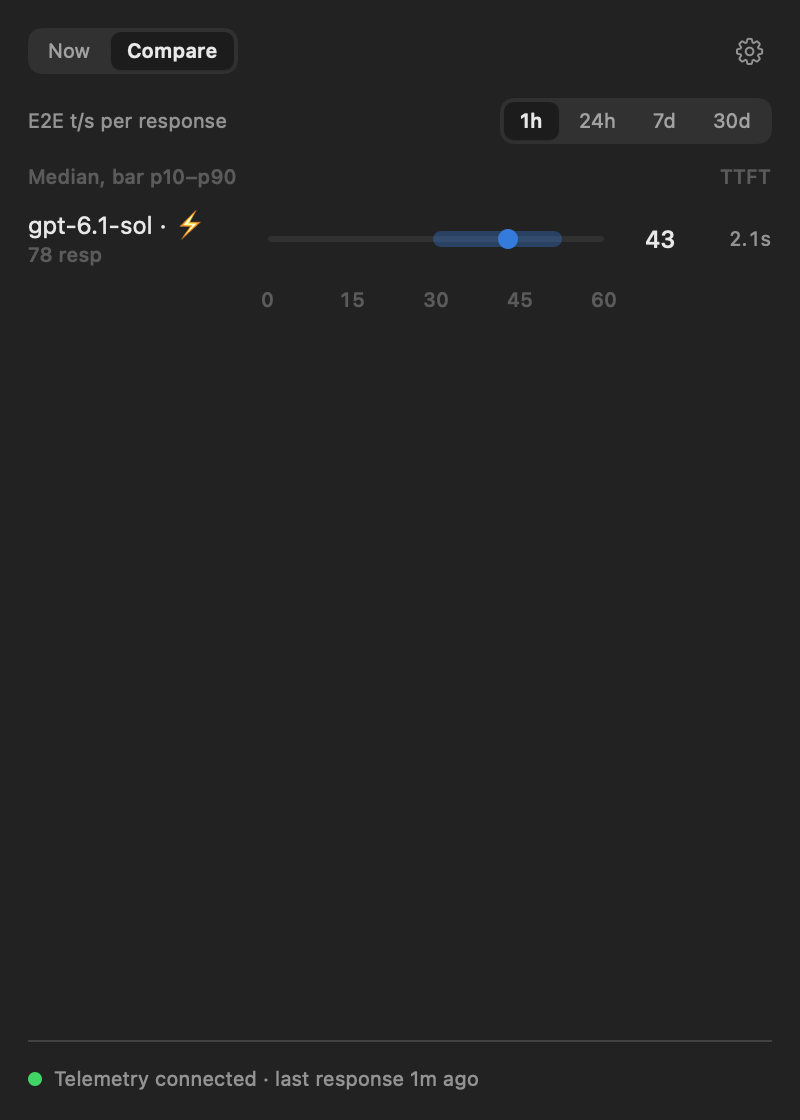
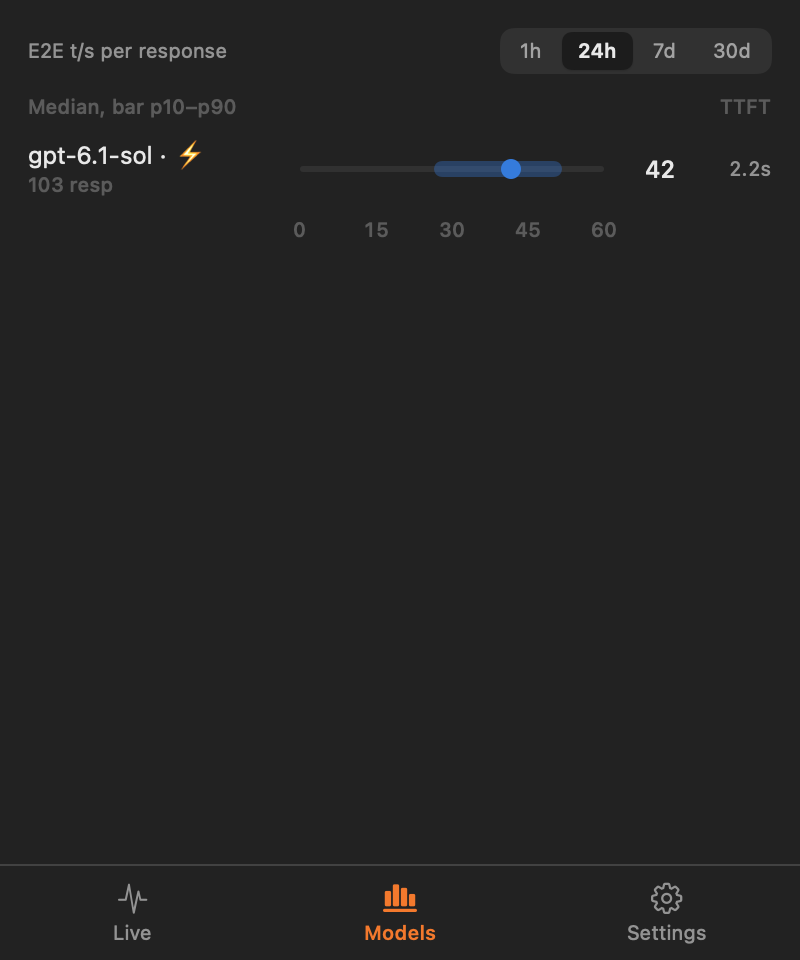
feat: bottom tab bar with Live, Models and Settings
The Now/Compare switch and the gear in the header are replaced by a tab
bar at the bottom: Live (formerly Now), Models (formerly Compare) and
Settings. Without the header the Live chart gets more room. The telemetry
status line only appears above the tab bar when it needs attention, and
the Settings tab then carries a coloured dot.

diff --git a/Sources/CodexTPS/Popover.swift b/Sources/CodexTPS/Popover.swift
@@ -13,42 +13,29 @@ struct PopoverView: View {
     let setup: CodexSetup
 
     var body: some View {
-        VStack(alignment: .leading, spacing: 12) {
-            HStack {
-                if selection.showSettings {
-                    Text("Settings").font(.headline)
-                } else {
-                    Segmented(options: [ChartSelection.Tab.now, .compare], title: { $0 == .now ? "Now" : "Compare" }, selected: selection.tab) {
-                        selection.tab = $0
-                    }
-                }
-                Spacer()
-                Button { selection.showSettings.toggle() } label: {
-                    Image(systemName: selection.showSettings ? "xmark" : "gearshape")
-                        .font(.system(size: 13))
-                        .foregroundStyle(.secondary)
-                        .frame(width: 22, height: 22)
-                        .contentShape(Rectangle())
-                }
-                .buttonStyle(.plain)
-                .help(selection.showSettings ? "Close settings" : "Settings")
-            }
-
+        let status = SetupStatusRow(stats: stats, setup: setup, compact: true)
+        VStack(spacing: 0) {
             Group {
-                if selection.showSettings {
-                    SettingsPanel(stats: stats, tray: tray, loginItem: loginItem, setup: setup)
-                } else if selection.tab == .now {
-                    NowTab(stats: stats, selection: selection, tray: tray)
-                } else {
-                    CompareTab(stats: stats, selection: selection, tray: tray)
+                switch selection.tab {
+                case .live: NowTab(stats: stats, selection: selection, tray: tray)
+                case .models: CompareTab(stats: stats, selection: selection, tray: tray)
+                case .settings: SettingsPanel(stats: stats, tray: tray, loginItem: loginItem, setup: setup)
                 }
             }
-            .frame(maxHeight: .infinity, alignment: .top)
+            .frame(maxWidth: .infinity, maxHeight: .infinity, alignment: .top)
+            .padding([.horizontal, .top], 14)
+            .padding(.bottom, 10)
+
+            // Telemetry state is shown here only when it needs attention; Settings always has it.
+            if !status.isHealthy, selection.tab != .settings {
+                status
+                    .padding(.horizontal, 14)
+                    .padding(.bottom, 8)
+            }
 
             Divider()
-            SetupStatusRow(stats: stats, setup: setup, compact: true)
+            TabBar(selection: selection, settingsBadge: status.isHealthy ? nil : status.indicatorColor)
         }
-        .padding(14)
         .frame(width: Self.size.width, height: Self.size.height)
         .onAppear {
             loginItem.refresh()
@@ -57,7 +44,39 @@ struct PopoverView: View {
     }
 }
 
-// MARK: - Now
+private struct TabBar: View {
+    let selection: ChartSelection
+    /// Dot on the Settings tab when telemetry needs attention.
+    let settingsBadge: Color?
+
+    var body: some View {
+        HStack(spacing: 0) {
+            ForEach(ChartSelection.Tab.allCases, id: \.self) { tab in
+                let on = selection.tab == tab
+                Button { selection.tab = tab } label: {
+                    VStack(spacing: 2) {
+                        Image(systemName: tab.symbol)
+                            .font(.system(size: 15, weight: on ? .semibold : .regular))
+                            .frame(height: 18)
+                            .overlay(alignment: .topTrailing) {
+                                if tab == .settings, let badge = settingsBadge {
+                                    Circle().fill(badge).frame(width: 7, height: 7).offset(x: 4, y: -2)
+                                }
+                            }
+                        Text(tab.title).font(.caption2.weight(on ? .semibold : .regular))
+                    }
+                    .foregroundStyle(on ? Color.accentColor : Color.secondary)
+                    .frame(maxWidth: .infinity)
+                    .padding(.vertical, 7)
+                    .contentShape(Rectangle())
+                }
+                .buttonStyle(.plain)
+            }
+        }
+    }
+}
+
+// MARK: - Live
 
 struct NowTab: View {
     let stats: Stats
@@ -245,7 +264,7 @@ private struct NowChart: View {
     }
 }
 
-// MARK: - Compare
+// MARK: - Models
 
 struct CompareTab: View {
     let stats: Stats
@@ -360,10 +379,11 @@ struct SettingsPanel: View {
 
     var body: some View {
         VStack(alignment: .leading, spacing: 16) {
+            Text("Settings").font(.headline)
             setting("Speed", note: tray.speed == .decode ? "Generation after the first token; needs telemetry" : "Request to completion, including time to first token") {
                 Segmented(options: SpeedMetric.allCases, title: \.title, selected: tray.speed) { tray.speed = $0 }
             }
-            setting("Menu bar", note: tray.pinned.flatMap { id in stats.allSeries.first { $0.id == id }?.label }.map { "Pinned: \($0) · tap a series on Now to change" } ?? "All series · tap a series on Now to pin it") {
+            setting("Menu bar", note: tray.pinned.flatMap { id in stats.allSeries.first { $0.id == id }?.label }.map { "Pinned: \($0) · tap a series on Live to change" } ?? "All series · tap a series on Live to pin it") {
                 Segmented(options: TrayMetric.allCases, title: \.title, selected: tray.metric) { tray.metric = $0 }
             }
             VStack(alignment: .leading, spacing: 8) {

diff --git a/Sources/CodexTPS/Components.swift b/Sources/CodexTPS/Components.swift
@@ -41,15 +41,33 @@ extension GroupKey {
 @MainActor
 @Observable
 final class ChartSelection {
-    enum Tab: String { case now, compare }
+    enum Tab: String, CaseIterable {
+        case live, models, settings
+
+        var title: String {
+            switch self {
+            case .live: "Live"
+            case .models: "Models"
+            case .settings: "Settings"
+            }
+        }
+
+        var symbol: String {
+            switch self {
+            case .live: "waveform.path.ecg"
+            case .models: "chart.bar.xaxis"
+            case .settings: "gearshape"
+            }
+        }
+    }
 
     static let nowRanges: [ChartRange] = [.m30, .h3, .h24, .d7]
     static let compareRanges: [ChartRange] = [.h1, .h24, .d7, .d30]
 
-    var tab = Tab(rawValue: UserDefaults.standard.string(forKey: "tab") ?? "") ?? .now {
+    /// Settings is not remembered, so the popover reopens on data.
+    var tab = Tab(rawValue: UserDefaults.standard.string(forKey: "tab") ?? "").flatMap { $0 == .settings ? nil : $0 } ?? .live {
         didSet { UserDefaults.standard.set(tab.rawValue, forKey: "tab") }
     }
-    var showSettings = false
     /// Hovered chart bucket on the Now tab.
     var bucket: Date?
     var range: ChartRange = ChartSelection.stored("chartRange", in: nowRanges, default: .m30) {

diff --git a/Sources/CodexTPS/Snapshot.swift b/Sources/CodexTPS/Snapshot.swift
@@ -1,7 +1,7 @@
 import AppKit
 import SwiftUI
 
-/// `CodexTPS --snapshot <out.png> [now|compare|settings] [dark] [hover] [tray] [<range>]` renders the popover to a PNG and exits.
+/// `CodexTPS --snapshot <out.png> [live|models|settings] [dark] [hover] [tray] [<range>]` renders the popover to a PNG and exits.
 /// `CodexTPS --bench [groups]` prints how long loading stored responses took and exits.
 enum Snapshot {
     @MainActor
@@ -46,8 +46,7 @@ enum Snapshot {
         let out = URL(fileURLWithPath: args[i + 1])
         let dark = args.contains("dark")
         waitUntilLoaded(stats) {
-            if args.contains("compare") { selection.tab = .compare } else if args.contains("now") { selection.tab = .now }
-            selection.showSettings = args.contains("settings")
+            if let tab = ChartSelection.Tab.allCases.first(where: { args.contains($0.rawValue) }) { selection.tab = tab }
             if let r = ChartRange.allCases.first(where: { args.contains($0.rawValue) }) {
                 if ChartSelection.nowRanges.contains(r) { selection.range = r }
                 if ChartSelection.compareRanges.contains(r) { selection.compareRange = r }

diff --git a/Sources/CodexTPS/SetupView.swift b/Sources/CodexTPS/SetupView.swift
@@ -27,6 +27,10 @@ struct SetupStatusRow: View {
         }
     }
 
+    /// Telemetry is arriving (or the dot is green for another reason).
+    var isHealthy: Bool { status.color == .green }
+    var indicatorColor: Color { status.color }
+
     private struct Status {
         let color: Color
         let text: String

diff --git a/README.md b/README.md
@@ -3,14 +3,14 @@
 macOS menu bar app that shows how fast Codex models generate: output tokens per second for the Codex desktop app and CLI, with time to first token, per model and service tier.
 
 <p>
-  <img src="docs/popover-light.png" width="49%" alt="Now tab: current speed in large type, chart of active series, series list">
-  <img src="docs/popover-dark.png" width="49%" alt="Compare tab in dark mode: series ranked by median speed with p10–p90 bar and TTFT">
+  <img src="docs/popover-light.png" width="49%" alt="Live tab: current speed in large type, chart of active series, series list">
+  <img src="docs/popover-dark.png" width="49%" alt="Models tab in dark mode: series ranked by median speed with p10–p90 bar and TTFT">
 </p>
 
 - **Menu bar**: a 1-minute token-weighted average (or 5 minutes, or the latest response) for all series or one pinned series. During a pause it keeps the last value instead of blanking.
-- **Now**: the pinned or most recent series in large type with E2E speed, decode speed, TTFT and responses per minute; a chart of active series over 30m / 3h / 24h / 7d; the active series, where a click pins one to the menu bar.
-- **Compare**: series ranked by median per-response speed over 1h / 24h / 7d / 30d, with a p10–p90 bar and median TTFT.
-- **Settings** (gear): E2E or decode speed, menu bar metric, split by reasoning effort, launch at login, Codex telemetry setup.
+- **Live**: the pinned or most recent series in large type with E2E speed, decode speed, TTFT and responses per minute; a chart of active series over 30m / 3h / 24h / 7d; the active series, where a click pins one to the menu bar.
+- **Models**: series ranked by median per-response speed over 1h / 24h / 7d / 30d, with a p10–p90 bar and median TTFT.
+- **Settings**: E2E or decode speed, menu bar metric, split by reasoning effort, launch at login, Codex telemetry setup.
 
 A series is a model × service tier: `–` default, `⚡` Fast (`fast` / `priority`), `⚡⚡` Ultrafast (`ultrafast`); other tiers show by name. Reasoning effort barely changes decode speed, so splitting series by it is optional.
 
@@ -35,7 +35,7 @@ exporter = { otlp-http = { endpoint = "http://127.0.0.1:43180/v1/logs", protocol
 
 Nothing changes without confirmation. CodexTPS first backs the file up next to it (`config.toml.bak-codextps-…`), then writes it atomically and runs `codex features list`; if Codex rejects the file, the backup is restored. An `[otel]` section that already points elsewhere is left alone, since Codex has a single logs exporter.
 
-Codex reads its config only at start. If the Codex app server was already running, CodexTPS offers **Restart Codex…**, which asks ChatGPT or Codex to quit and opens it again; terminal `codex` sessions need a manual restart. The status line at the bottom of the popover shows whether telemetry is arriving, and **Remove…** in Settings takes the section out again.
+Codex reads its config only at start. If the Codex app server was already running, CodexTPS offers **Restart Codex…**, which asks ChatGPT or Codex to quit and opens it again; terminal `codex` sessions need a manual restart. When telemetry needs attention, a status line appears above the tab bar and the Settings tab gets a dot; Settings always shows the telemetry state, and **Remove…** there takes the section out again.
 
 The same steps work headless: `CodexTPS --setup-status`, `--setup-install`, `--setup-uninstall`.
 
@@ -47,7 +47,7 @@ CodexTPS listens for OTLP/HTTP JSON on `127.0.0.1:43180` only. It pairs each `co
 - **Decode** = (output tokens − 1) / (duration − TTFT): the generation speed itself.
 - **TTFT** = time to first token, as measured by Codex.
 
-Averages are token-weighted; Compare uses per-response medians and percentiles. A series' figures cover the minute before its latest response, so they stay put during a pause. The popover has a fixed size because MenuBarExtra does not shrink its window while it is open.
+Averages are token-weighted; Models uses per-response medians and percentiles. A series' figures cover the minute before its latest response, so they stay put during a pause. The popover has a fixed size because MenuBarExtra does not shrink its window while it is open.
 
 ## Build
 
@@ -60,7 +60,7 @@ open build/CodexTPS.app
 
 For development:
 
-- `CodexTPS --snapshot out.png [now|compare|settings] [dark] [hover] [tray] [m30|h3|h24|d7|h1|d30]` renders the popover through an offscreen AppKit window and exits; the screenshots above come from it.
+- `CodexTPS --snapshot out.png [live|models|settings] [dark] [hover] [tray] [m30|h3|h24|d7|h1|d30]` renders the popover through an offscreen AppKit window and exits; the screenshots above come from it.
 - `CodexTPS --bench [groups]` reports the load time and per-series totals.
 
 ## Releases
